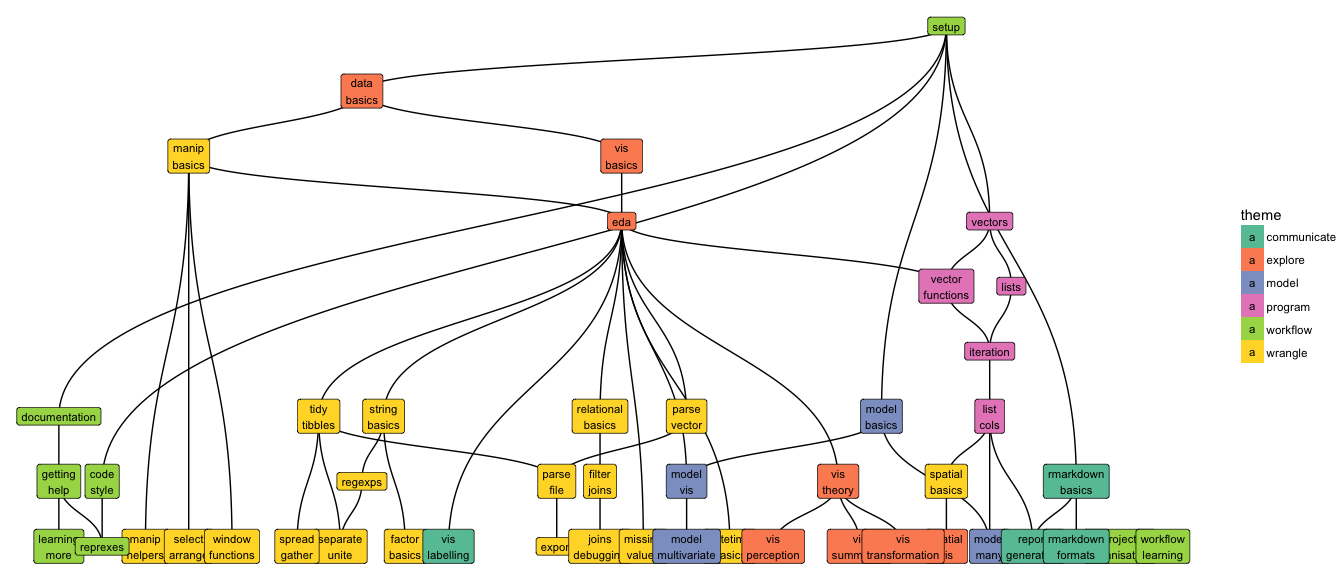
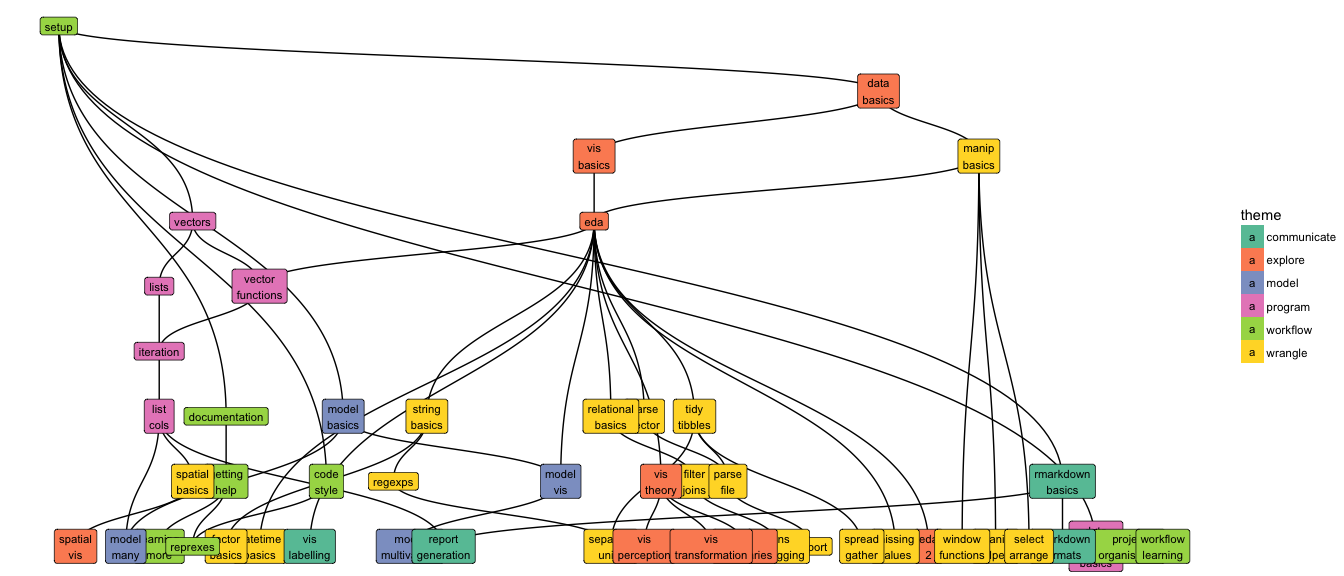
Add data structure basics unit

diff --git a/docs/data-structure-basics.md b/docs/data-structure-basics.md
@@ -1,0 +1,102 @@
+---
+title: Data structure basics
+---
+
+<!-- Generated automatically from data-structure-basics.yml. Do not edit by hand -->
+
+# Data structure basics <small class='program'>[program]</small>
+<small>(Builds on: [Setup](setup.md))</small>
+
+
+It's helpful to know a little bit about how data structures are organised in R. The simplest data structure in R is the vector, which can be broken up in to atomic vectors and augmented vectors. Vectors of related data are organised together in tibbles and data.frames.
+
+``` r
+library(tidyverse)
+```
+
+Atomic vectors
+--------------
+
+The atomic vectors are the "atoms" of R, the simple building blocks upon which all else is built. There are four types of atomic vector that are important for data analysis:
+
+-   **logical** vectors (lgl) contain `TRUE` or `FALSE`.
+-   **integer** vectors (int) contain integers.
+-   **double** vectors (dbl) contain real numbers.
+-   **character** vector (chr) contain strings made with `""`.
+
+All vectors can also contain the missing value `NA`. You'll learn more about missing values later on. Collectively integer and double vectors are known as **numeric** vectors. The difference is rarely important in R.
+
+You create atomic vectors by hand with the `c()` function:
+
+``` r
+logical <- c(TRUE, FALSE, FALSE)
+
+# The difference between the real number 1 and the integer 1 is not 
+# usually important, but soemtimes it comes up in base R code. R uses
+# the suffix "L" to indicate that a number is an integer.
+integer <- c(1L, 2L, 3L)
+
+double <- c(1.5, 2.8, pi)
+
+character <- c("this", "is", "a character", "vector")
+```
+
+Augmented
+---------
+
+Augmented vectors are atomic vectors with additional metadata. There are four important augmented vectors:
+
+-   factors (fct), which are used to represent categorical variables can take one of a fixed and known set of possible values (called the levels).
+
+-   ordered factors (ord), which are like factors but where the level have an intrinsic ordering (i.e. it's reasonable to say that one level is "less than" or "greater than" another variable).
+
+-   dates (dt), which represe
+
+-   date/times also known as POSIXct (dttm)
+
+For now, you just need to recognise these when you encounter them. You'll learn how to create each type of augmented vector later in the course.
+
+Data frames/tibbles
+-------------------
+
+Related vectors (both atomic and augment) are collected together into data frames or tibbles. Later you'll learn the precise different between data.frames and tibbles, but don't worry about it for now. There are two ways to create tibbles by hand:
+
+1.  From individual vectors, each representing a column:
+
+    ``` r
+    my_tibble <- tibble(
+      x = c(1, 9, 5),
+      y = c(TRUE, FALSE, FALSE),
+      z = c("apple", "pear", "banana")
+    )
+    my_tibble
+    ```
+
+        ## # A tibble: 3 × 3
+        ##       x     y      z
+        ##   <dbl> <lgl>  <chr>
+        ## 1     1  TRUE  apple
+        ## 2     9 FALSE   pear
+        ## 3     5 FALSE banana
+
+2.  From individual values, organised in rows:
+
+    ``` r
+    my_tibble <- tribble(
+      ~x, ~y,    ~z,
+      1,  TRUE,  "apple",
+      9,  FALSE, "pear",
+      5,  FALSE, "banana"
+    )
+    my_tibble
+    ```
+
+        ## # A tibble: 3 × 3
+        ##       x     y      z
+        ##   <dbl> <lgl>  <chr>
+        ## 1     1  TRUE  apple
+        ## 2     9 FALSE   pear
+        ## 3     5 FALSE banana
+
+Typically it will be obvious whether you need to use `tibble()` or `tribble()`. One representation will either be much shorter or much clearer than the other.
+

diff --git a/storyboard.md b/storyboard.md
@@ -268,8 +268,8 @@
 |r4ds-6.2                              |RStudio diagnostics                               |                                                                                   |                                                                               |       |       |       |       |       |       |       |       |
 |r4ds-6.3                              |Practice                                          |                                                                                   |                                                                               |       |       |       |       |       |       |       |       |
 |r4ds-7                                |Exploratory Data Analysis                         |                                                                                   |                                                                               |       |       |       |       |       |       |       |       |
-|r4ds-7.1                              |Introduction                                      |                                                                                   |                                                                               |       |       |       |       |       |       |       |       |
-|r4ds-7.2                              |Questions                                         |                                                                                   |                                                                               |       |       |       |       |       |       |       |       |
+|r4ds-7.1                              |Introduction                                      |                                                                                   |[eda](https://dcl-2017-01.github.io/curriculum/eda.html)                       |       |       |       |       |       |       |       |       |
+|r4ds-7.2                              |Questions                                         |                                                                                   |[eda](https://dcl-2017-01.github.io/curriculum/eda.html)                       |       |       |       |       |       |       |       |       |
 |r4ds-7.3                              |Variation                                         |                                                                                   |                                                                               |       |       |       |       |       |       |       |       |
 |r4ds-7.4                              |Missing values                                    |                                                                                   |                                                                               |       |       |       |       |       |       |       |       |
 |r4ds-7.5                              |Covariation                                       |                                                                                   |                                                                               |       |       |       |       |       |       |       |       |

diff --git a/docs/setup.md b/docs/setup.md
@@ -5,7 +5,7 @@ title: Setup
 <!-- Generated automatically from setup.yml. Do not edit by hand -->
 
 # Setup <small class='workflow'>[workflow]</small>
-<small>(Leads to: [Code style](code-style.md), [Data basics](data-basics.md), [Documentation](documentation.md), [Model intuition](model-basics.md), [R Markdown basics](rmarkdown-basics.md), [Atomic vectors](vectors.md))</small>
+<small>(Leads to: [Code style](code-style.md), [Data basics](data-basics.md), [Data structure basics](data-structure-basics.md), [Documentation](documentation.md), [Model intuition](model-basics.md), [R Markdown basics](rmarkdown-basics.md), [Atomic vectors](vectors.md))</small>
 
 Ensure that you have all the tools you need for this class. You should
 have done this before the first day.

diff --git a/docs/index.md b/docs/index.md
@@ -84,5 +84,11 @@ title: Theme index
   <td colspan="3"><a class="wrangle" href="select-arrange.html">Select and arrange</a></td>
   <td colspan="4"></td>
 </tr>
+<tr>
+<td></td>
+  <td colspan="2"></td>
+  <td colspan="3"><a class="program" href="data-structure-basics.html">Data structure basics</a></td>
+  <td colspan="3"></td>
+</tr>
 </tbody>
 </table>
